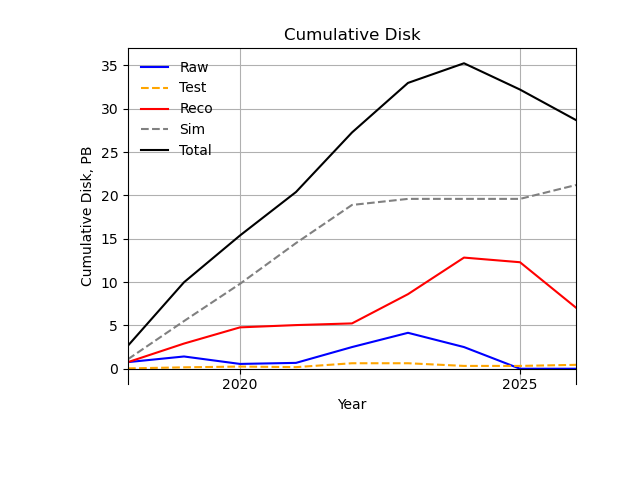
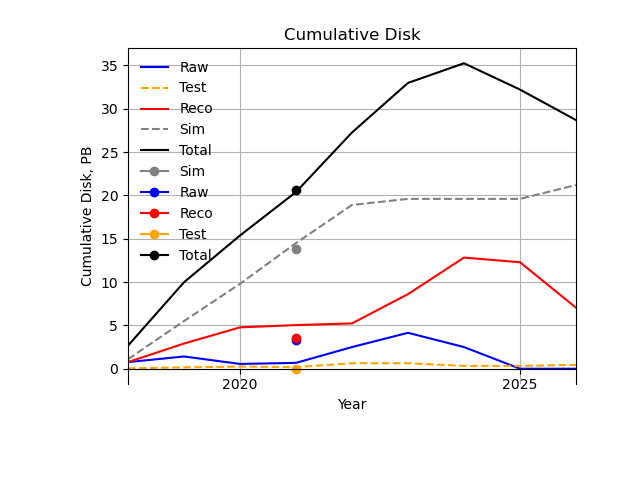
add in MARS

diff --git a/Jupyter/Numbers/Numbers_2022-01-22.py b/Jupyter/Numbers/Numbers_2022-01-22.py
@@ -31,7 +31,7 @@ t = 0
 for p in tapepoints:
     t += tapepoints[p][1]
 tapepoints["Total"] = [2021,t]
-cpupoints = {"Total":[2021,67.7-17.0],"Analysis":[2021,46.6-17.0]}
+cpupoints = {"Total":[2021,41.2],"Analysis":[2021,41.2-17.2-9.3],"MARS":[2021,17.2],"Production":[2021,9.3]}
 # were walltime, need to derate
 
 def testcumulate():

diff --git a/Jupyter/Numbers/2022-01-22-2026/Parameters_2022-01-16-2026.tex b/Jupyter/Numbers/2022-01-22-2026/Parameters_2022-01-16-2026.tex
@@ -8,7 +8,7 @@
 \setlength{\textheight=9.5 in}
 \begin{document}
 \centerline{\bf{DUNE Resource Needs for 2022}}\vskip 1 in \par Configuration: Parameters\_2022-01-16-2026.json\\
-  Date: 2022-01-22 20:12TZ\\
+  Date: 2022-01-22 20:27TZ\\
    \\
   \input intro.tex
  Fiscal year starts: April 1\\ 
